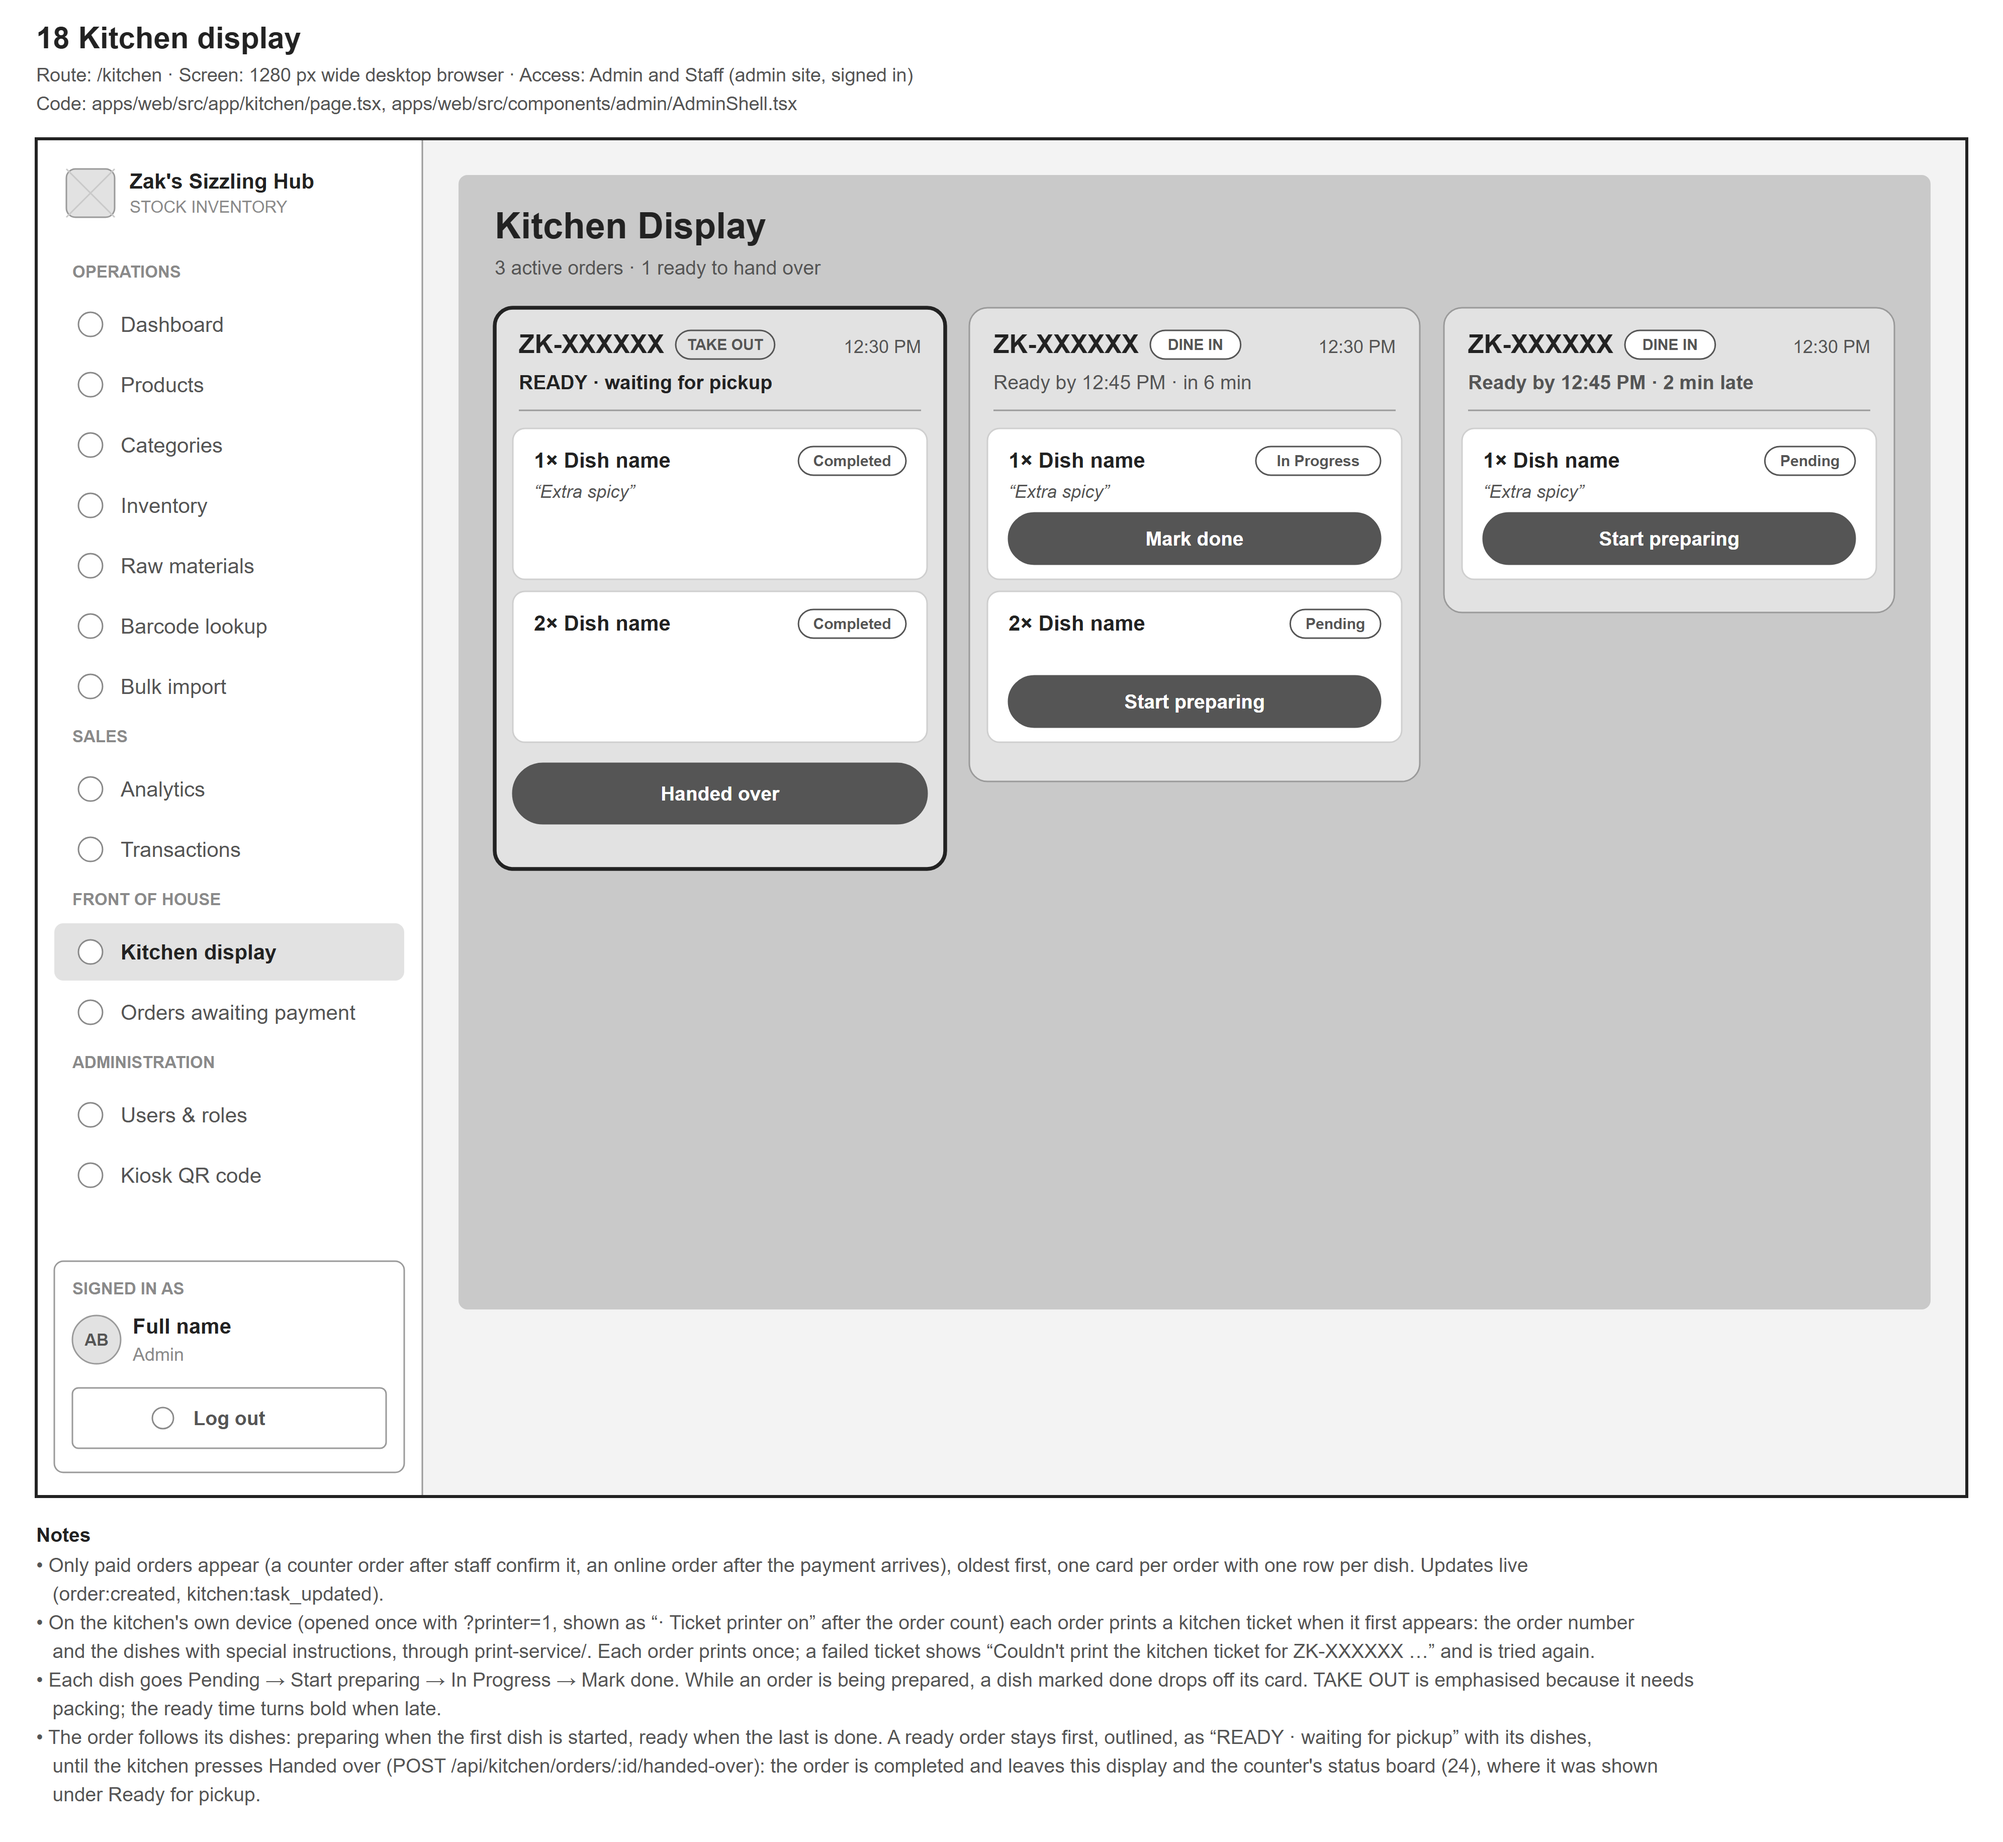
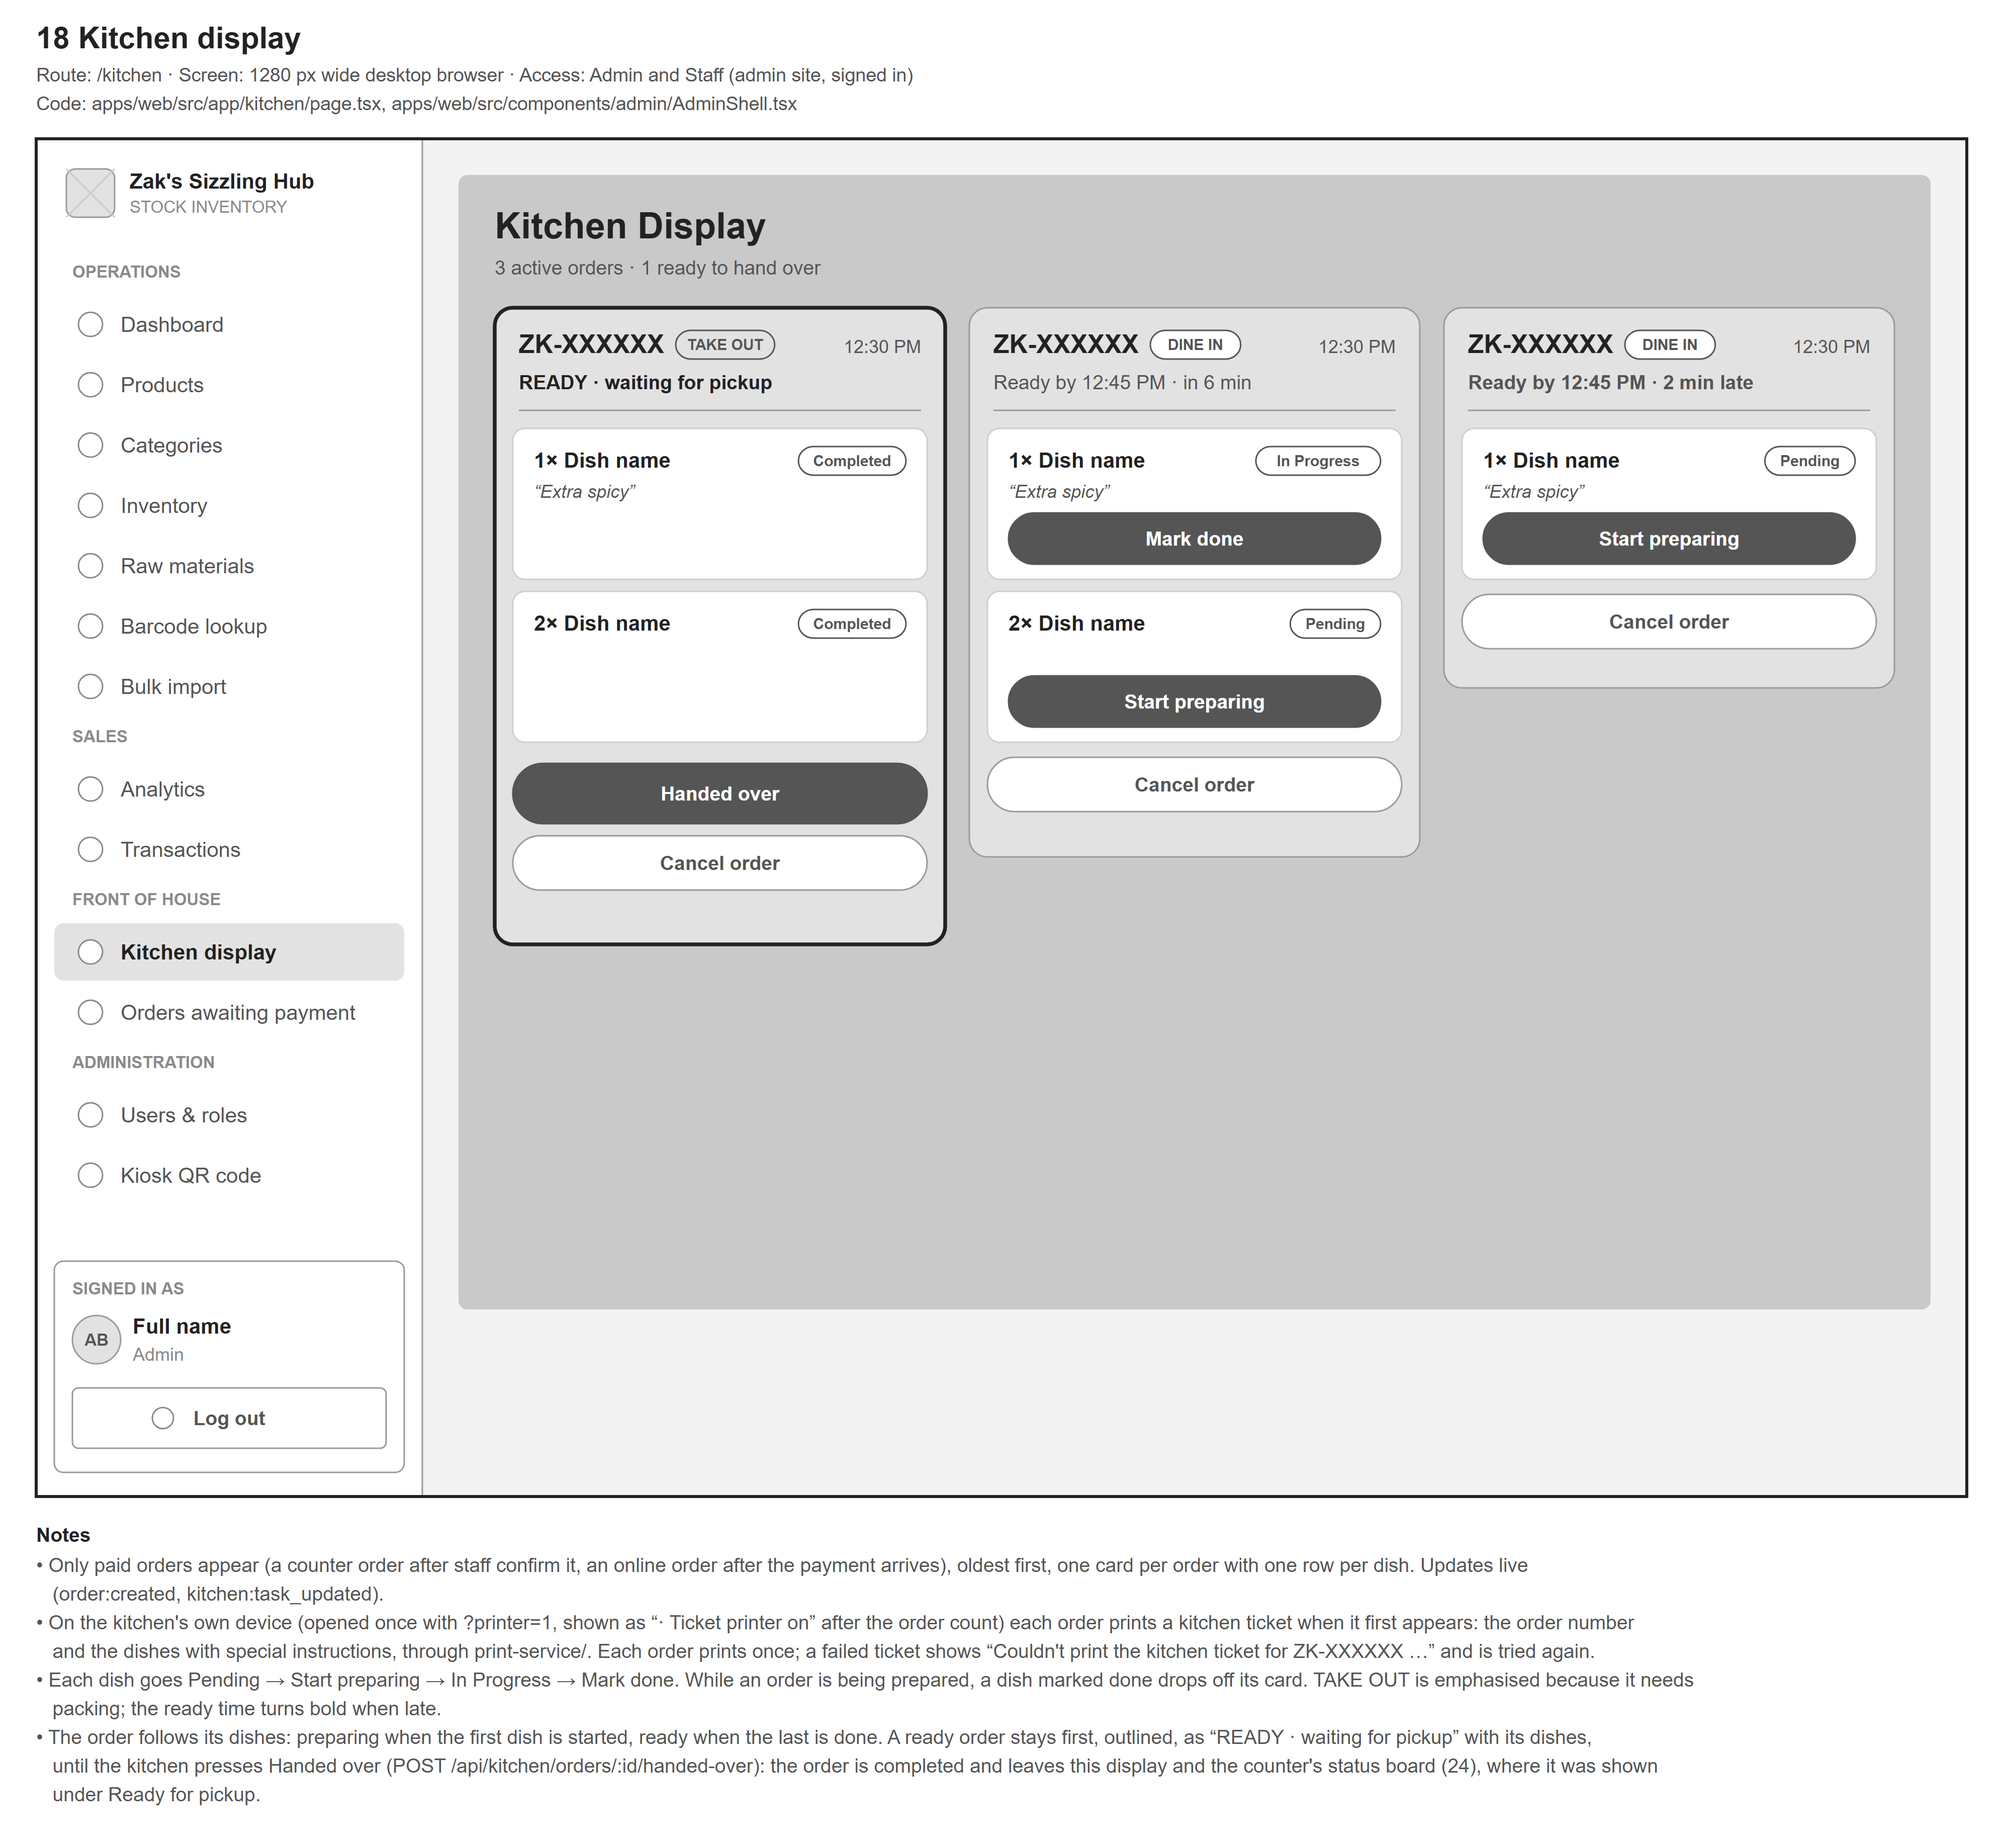
docs: kitchen cancel in wireframes 18, 18c and 19, and flow 06

Changed region(s): [[0.249, 0.4046, 0.7159, 0.5291], [0.7159, 0.3112, 0.9649, 0.3735]]

diff --git a/docs/diagrams/source/screens_admin.py b/docs/diagrams/source/screens_admin.py
@@ -745,9 +745,10 @@ def analytics():
 
 
 # --- 18 kitchen display ------------------------------------------------------------------
-def kitchen_page(empty):
-    f = admin_page("18b" if empty else "18", "Kitchen display" + (": no active orders" if empty else ""), "/kitchen",
-                   A + "kitchen/page.tsx", h=800, active="/kitchen")
+def kitchen_page(empty, asking_cancel=False):
+    number = "18b" if empty else "18c" if asking_cancel else "18"
+    title = "Kitchen display" + (": no active orders" if empty else ": cancelling an order" if asking_cancel else "")
+    f = admin_page(number, title, "/kitchen", A + "kitchen/page.tsx", h=800, active="/kitchen")
     f.rect(CX, 24, CW, 752, fill=FILL4, stroke=None, r=6)
     f.text(CX + 24, 66, "Kitchen Display", size=24, bold=True)
     f.text(CX + 24, 90, "0 active orders" if empty else "3 active orders · 1 ready to hand over", size=13, fill=INK2)
@@ -760,7 +761,8 @@ def kitchen_page(empty):
     for i, (otype, due, tasks) in enumerate(orders):
         x, y = CX + 24 + i * (cw + 16), 112
         ready = due == "ready"
-        f.rect(x, y, cw, 90 + len(tasks) * 112 + (58 if ready else 0), fill=FILL3, stroke=INK if ready else LINE, r=12, sw=2.5 if ready else 1)
+        asking = asking_cancel and i == 2
+        f.rect(x, y, cw, 90 + len(tasks) * 112 + (58 if ready else 0) + (362 if asking else 50), fill=FILL3, stroke=INK if ready else LINE, r=12, sw=2.5 if ready else 1)
         f.text(x + 16, y + 30, "ZK-XXXXXX", size=17, bold=True)
         f.pill(x + 120, y + 15, otype, size=10, filled=otype == "TAKE OUT", r=10)
         f.text(x + cw - 16, y + 30, "12:30 PM", size=12, anchor="end", fill=INK2)
@@ -780,6 +782,27 @@ def kitchen_page(empty):
             if status != "completed":
                 f.btn(x + 26, ty + 56, cw - 52, 34, "Start preparing" if status == "pending" else "Mark done", kind="primary", r=17)
             ty += 108
+        if ready:
+            ty += 52
+        if asking:
+            f.rect(x + 12, ty, cw - 24, 350, fill=WHITE, stroke=INK, r=8, sw=1.5)
+            f.wrap(x + 24, ty + 22, cw - 48, "Cancel ZK-XXXXXX? Dishes not started go back into stock, and the payment queue will remind staff to refund the customer.", size=12)
+            cy = ty + 100
+            for reason in ("Customer left", "Ran out of an ingredient", "Order was a mistake"):
+                f.btn(x + 24, cy, cw - 48, 30, reason, kind="secondary", r=15, size=12)
+                cy += 36
+            f.text(x + 24, cy + 12, "Reason", size=12, fill=INK2)
+            f.rect(x + 24, cy + 20, cw - 48, 32, fill=WHITE, stroke=LINE, r=6)
+            f.text(x + 34, cy + 41, "Pick one above, or type it", size=12, fill=INK3)
+            f.btn(x + 24, cy + 60, cw - 48, 32, "Yes, cancel order", kind="danger", r=16, size=12)
+            f.btn(x + 24, cy + 98, cw - 48, 32, "Keep order", kind="secondary", r=16, size=12)
+        else:
+            f.btn(x + 12, ty + 2, cw - 24, 36, "Cancel order", kind="secondary", r=18)
+    if asking_cancel:
+        f.add_note("Cancel order is on every card until the order is handed over. It asks for a reason, a quick choice or typed; Yes, cancel order stays disabled until there is one.")
+        f.add_note("POST /api/kitchen/orders/:id/cancel (Staff and Administrator): the order is cancelled and leaves this display and the counter's status board. Dishes still Pending go back into stock, logged under the person who cancelled with the reason “return”; a dish In Progress or Completed counts as used.")
+        f.add_note("The system can't send money back, so the order appears in Orders awaiting payment (19) as NEEDS ATTENTION with a note to refund the customer, until staff press Mark as sorted out. The reason shows in Transactions (23).")
+        return f
     f.add_note("Only paid orders appear (a counter order after staff confirm it, an online order after the payment arrives), oldest first, one card per order with one row per dish. Updates live (order:created, kitchen:task_updated).")
     f.add_note("On the kitchen's own device (opened once with ?printer=1, shown as “· Ticket printer on” after the order count) each order prints a kitchen ticket when it first appears: the order number and the dishes with special instructions, through print-service/. Each order prints once; a failed ticket shows “Couldn't print the kitchen ticket for ZK-XXXXXX …” and is tried again.")
     f.add_note("Each dish goes Pending → Start preparing → In Progress → Mark done. While an order is being prepared, a dish marked done drops off its card. TAKE OUT is emphasised because it needs packing; the ready time turns bold when late.")
@@ -793,6 +816,10 @@ def kitchen():
 
 def kitchen_empty():
     return kitchen_page(True)
+
+
+def kitchen_cancel():
+    return kitchen_page(False, asking_cancel=True)
 
 
 # --- 19 orders awaiting payment ----------------------------------------------------------
@@ -844,7 +871,7 @@ def orders_page(empty):
     f.add_note("Lists unpaid, not-cancelled orders plus orders flagged for attention (newest first, up to 50). Search ignores spaces and dashes. The order type, payment method and how long ago it was placed come from the order.")
     f.add_note("Live: the list reloads by itself (orders:changed, an event with no order data) whenever an order is placed, paid, edited or cancelled; an order that arrives while the page is open is marked NEW for a minute (first row).")
     f.add_note("Confirm order (“Checking stock…”) marks it paid, deducts stock and sends it to the kitchen in one step; if stock is short nothing changes and an error tells staff to change the order with the customer. Cancel asks first (second row).")
-    f.add_note("NEEDS ATTENTION (third row) marks an online payment staff must sort out, with the server's note on what happened and what to do: paid after the stock ran out or after the order was cancelled, a wrong amount, or paid twice. Once staff have refunded, substituted or collected the difference, Mark as sorted out takes it off the list (the note stays in the transaction history); an unpaid one also keeps Cancel and Confirm. PARTIAL: this only arises with online payment.")
+    f.add_note("NEEDS ATTENTION (third row) marks an online payment staff must sort out, with the server's note on what happened and what to do: paid after the stock ran out or after the order was cancelled, a wrong amount, paid twice, or cancelled by the kitchen after being paid (18c). Once staff have refunded, substituted or collected the difference, Mark as sorted out takes it off the list (the note stays in the transaction history); an unpaid one also keeps Cancel and Confirm. PARTIAL: this only arises with online payment.")
     return f
 
 
@@ -1115,7 +1142,7 @@ def status_board():
 
 SCREENS = [login, login_error, login_code, dashboard, dashboard_staff, products, product_form, product_form_recipe, product_delete,
            inventory, adjust_stock, raw_materials, raw_adjust, raw_form, barcode_found, barcode_not_found, bulk_import,
-           bulk_import_result, analytics, kitchen, kitchen_empty, orders, orders_empty, users, invite_user, confirm_change, edit_user,
+           bulk_import_result, analytics, kitchen, kitchen_empty, kitchen_cancel, orders, orders_empty, users, invite_user, confirm_change, edit_user,
            kiosk_qr, kiosk_qr_invalid, raw_nutrition, categories, transactions, status_board]
 
 SLUGS = {
@@ -1124,7 +1151,7 @@ SLUGS = {
     "13b": "adjust-stock", "14": "raw-materials", "14b": "raw-material-adjust", "14c": "raw-material-form",
     "14d": "raw-material-nutrition", "22": "categories", "23": "transactions", "24": "order-status-board",
     "15": "barcode-found", "15b": "barcode-not-found", "16": "bulk-import-preview", "16b": "bulk-import-result",
-    "17": "analytics", "18": "kitchen-display", "18b": "kitchen-display-empty", "19": "orders-awaiting-payment",
+    "17": "analytics", "18": "kitchen-display", "18b": "kitchen-display-empty", "18c": "kitchen-cancel-order", "19": "orders-awaiting-payment",
     "19b": "orders-awaiting-payment-empty", "20": "users-roles", "20b": "invite-user", "20c": "confirm-user-change",
     "20d": "edit-user",
     "21": "kiosk-qr", "21b": "kiosk-qr-invalid",

diff --git a/docs/diagrams/source/flows_more.py b/docs/diagrams/source/flows_more.py
@@ -133,6 +133,7 @@ def kitchen():
              notes=[
                  "The order's status follows its dishes (confirmed → preparing → ready), and Handed over completes it. The counter's status board (24) is the customer's ready notice; a QR customer's phone receipt doesn't update by itself (a limitation).",
                  "Any signed-in Staff or Admin can use the kitchen display. A dish only moves forward: Pending → In Progress → Completed.",
+                 "At any step until Handed over, Staff or an Admin can press Cancel order and give a reason (18c): the order is cancelled and leaves the display and the board, dishes still Pending go back into stock, and it goes to the payment queue as NEEDS ATTENTION for a refund.",
                  "Kitchen tickets print only on the device with the kitchen printer (print-service/), once per order; if printing fails the display says so and tries again with the next update or within 30 seconds.",
              ])
     S, K, A = f.lanes

diff --git a/docs/diagrams/source/readme.py b/docs/diagrams/source/readme.py
@@ -51,6 +51,7 @@ WIREFRAME_DESC = {
     "17": "Analytics: period switch, KPI tiles (with average order value), sales chart, top products, profitability, inventory movement, exports.",
     "18": "Kitchen display: a READY card with Handed over, and order cards with per-dish Start preparing / Mark done.",
     "18b": "Kitchen display with no active orders.",
+    "18c": "Kitchen display: Cancel order asking for a reason.",
     "19": "Counter payment queue (updates live): a new order, a cancel confirmation and a stock-issue order.",
     "19b": "Counter payment queue with nothing waiting.",
     "20": "User accounts with role cards, role selectors, Edit, Test email and Suspend / Reactivate.",

diff --git a/docs/diagrams/README.md b/docs/diagrams/README.md
@@ -57,6 +57,7 @@ The kiosk is drawn at its 1024 × 600 touchscreen size; the back office at a 128
 | [17-analytics.png](png/17-analytics.png) | Analytics | `/admin/analytics` | Analytics: period switch, KPI tiles (with average order value), sales chart, top products, profitability, inventory movement, exports. | app/admin/analytics/page.tsx, components/admin/AdminShell.tsx |
 | [18-kitchen-display.png](png/18-kitchen-display.png) | Kitchen display | `/kitchen` | Kitchen display: a READY card with Handed over, and order cards with per-dish Start preparing / Mark done. | app/kitchen/page.tsx, components/admin/AdminShell.tsx |
 | [18b-kitchen-display-empty.png](png/18b-kitchen-display-empty.png) | Kitchen display: no active orders | `/kitchen` | Kitchen display with no active orders. | app/kitchen/page.tsx, components/admin/AdminShell.tsx |
+| [18c-kitchen-cancel-order.png](png/18c-kitchen-cancel-order.png) | Kitchen display: cancelling an order | `/kitchen` | Kitchen display: Cancel order asking for a reason. | app/kitchen/page.tsx, components/admin/AdminShell.tsx |
 | [19-orders-awaiting-payment.png](png/19-orders-awaiting-payment.png) | Orders awaiting payment | `/staff/orders` | Counter payment queue (updates live): a new order, a cancel confirmation and a stock-issue order. | app/staff/orders/page.tsx, components/admin/AdminShell.tsx |
 | [19b-orders-awaiting-payment-empty.png](png/19b-orders-awaiting-payment-empty.png) | Orders awaiting payment: nothing waiting | `/staff/orders` | Counter payment queue with nothing waiting. | app/staff/orders/page.tsx, components/admin/AdminShell.tsx |
 | [20-users-roles.png](png/20-users-roles.png) | Users & roles | `/admin/users` | User accounts with role cards, role selectors, Edit, Test email and Suspend / Reactivate. | app/admin/users/page.tsx, components/admin/AdminShell.tsx |
